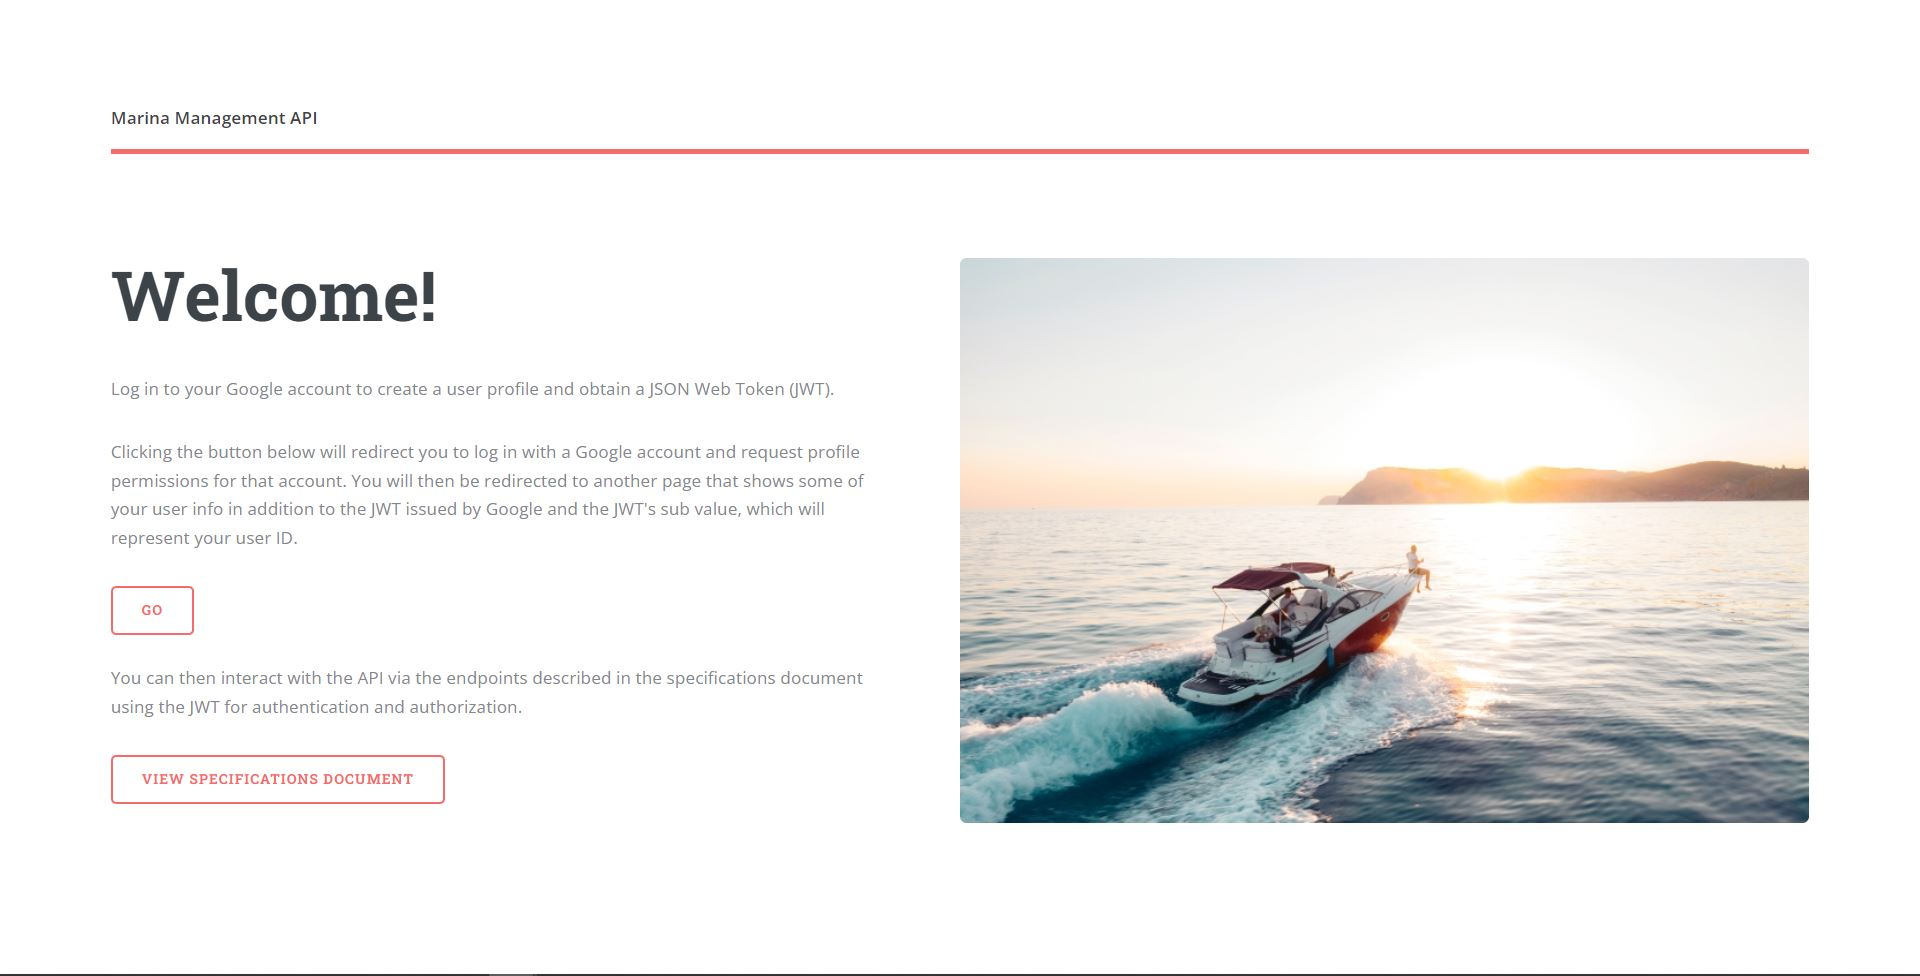
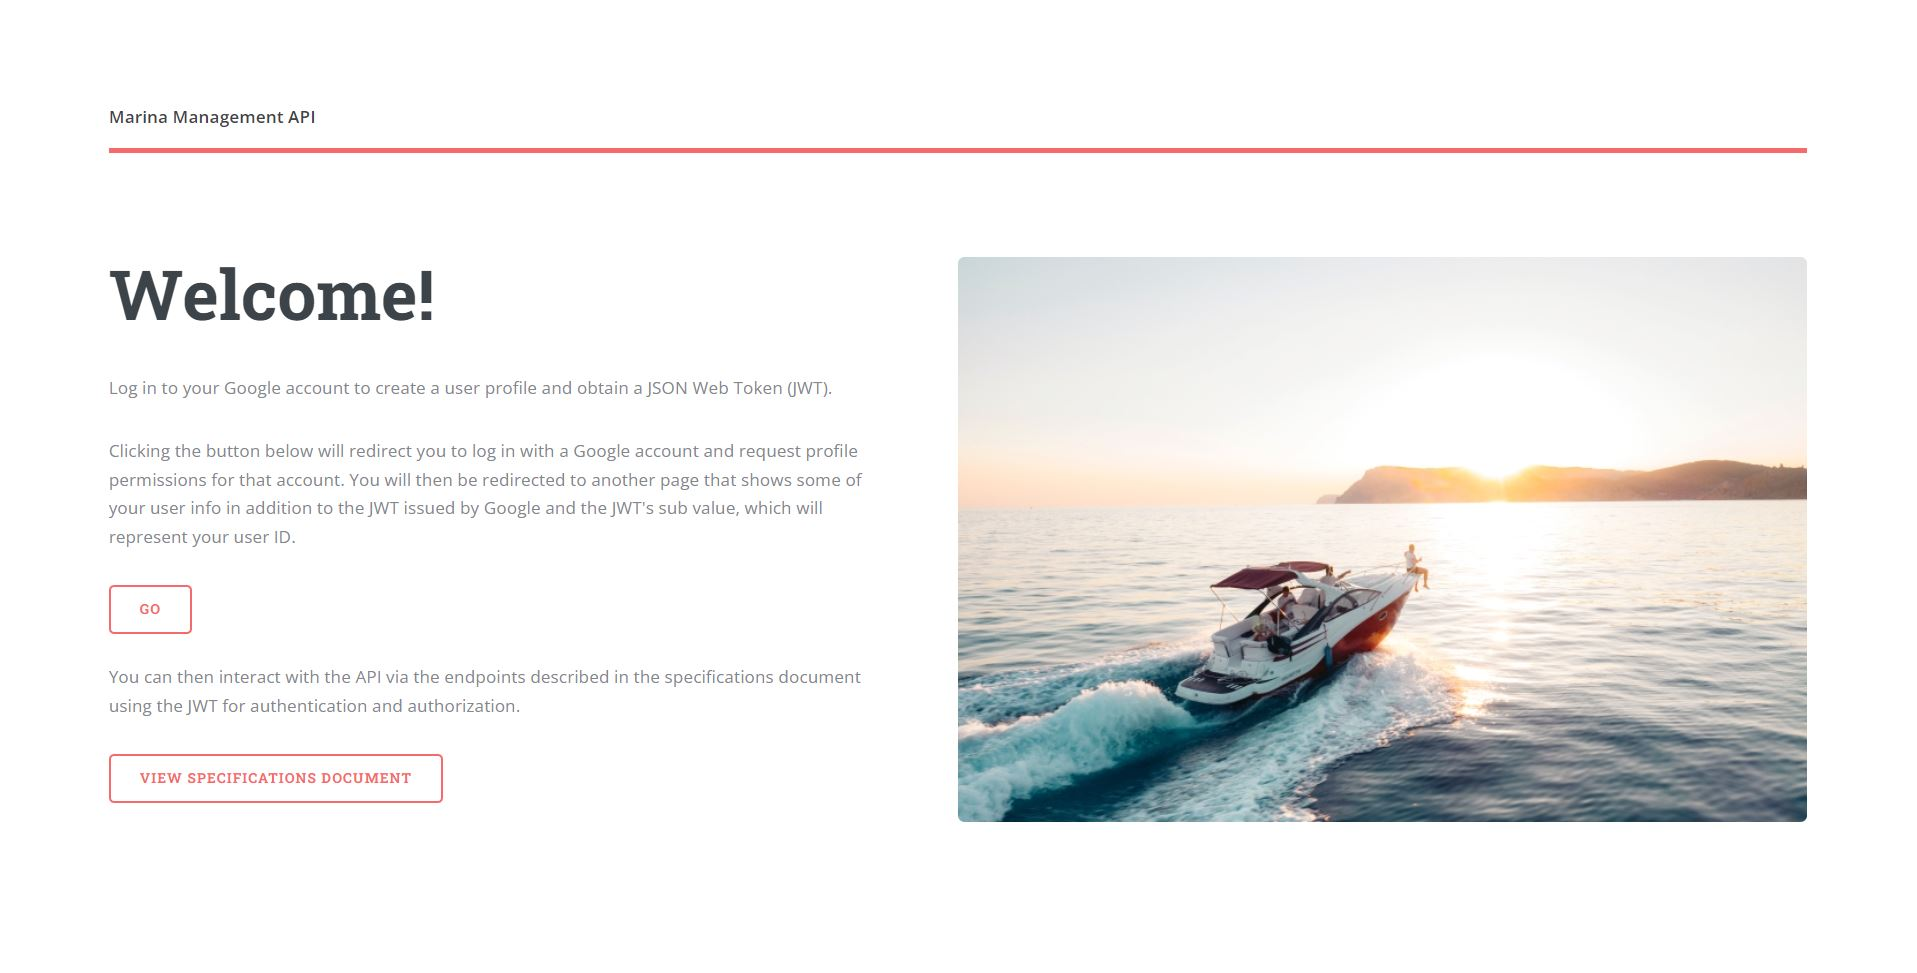
Update README

diff --git a/views/index.html b/views/index.html
@@ -48,10 +48,10 @@
 										<br>
 										<p>
 											You can then interact with the API via the endpoints described in the
-											specifications document using the JWT for authentication and authorization.
+											specification document using the JWT for authentication and authorization.
 										</p>
 										<ul class="actions">
-											<li><a href="api-specification.pdf" class="button">View Specifications Document</a></li>
+											<li><a href="api-specification.pdf" class="button">View Specification Document</a></li>
 										</ul>
 									</div>
 									<span class="image object">

diff --git a/README.md b/README.md
@@ -12,11 +12,11 @@ For details about the API and all supported endpoints, view the API documentatio
 
 ### Unprotected Endpoints
 
-To interact with unprotected endpoints, simply send requests as described in the API Specifications.
+To interact with unprotected endpoints, simply send requests as described in the API Specification.
 
 ![Request](./public/images/example-request.jpg)
 
-An example request to create a load entity. The example uses Postman to send the request, although you are free to use another method.
+An example request to create a load entity. This example uses Postman to send the request, although you are free to use another method.
 
 ### Protected Endpoints
 
@@ -32,6 +32,6 @@ Save the JWT and send it in the Authorization Header as the value of a Bearer To
 
 ![Auth](./public/images/example-authorization-header.jpg)
 
-In the example above, the JWT is stored as an environment variable named `jwt1`. The Authorization Header type is set to "Bearer Token" with the token value set to the JWT.
+In the example using Postman above, the JWT is stored as an environment variable named `jwt1`. The Authorization Header type is set to "Bearer Token" with the token value set to the JWT.
 
 Note that JWTs expire. To obtain a new JWT, simply follow these instructions again.
